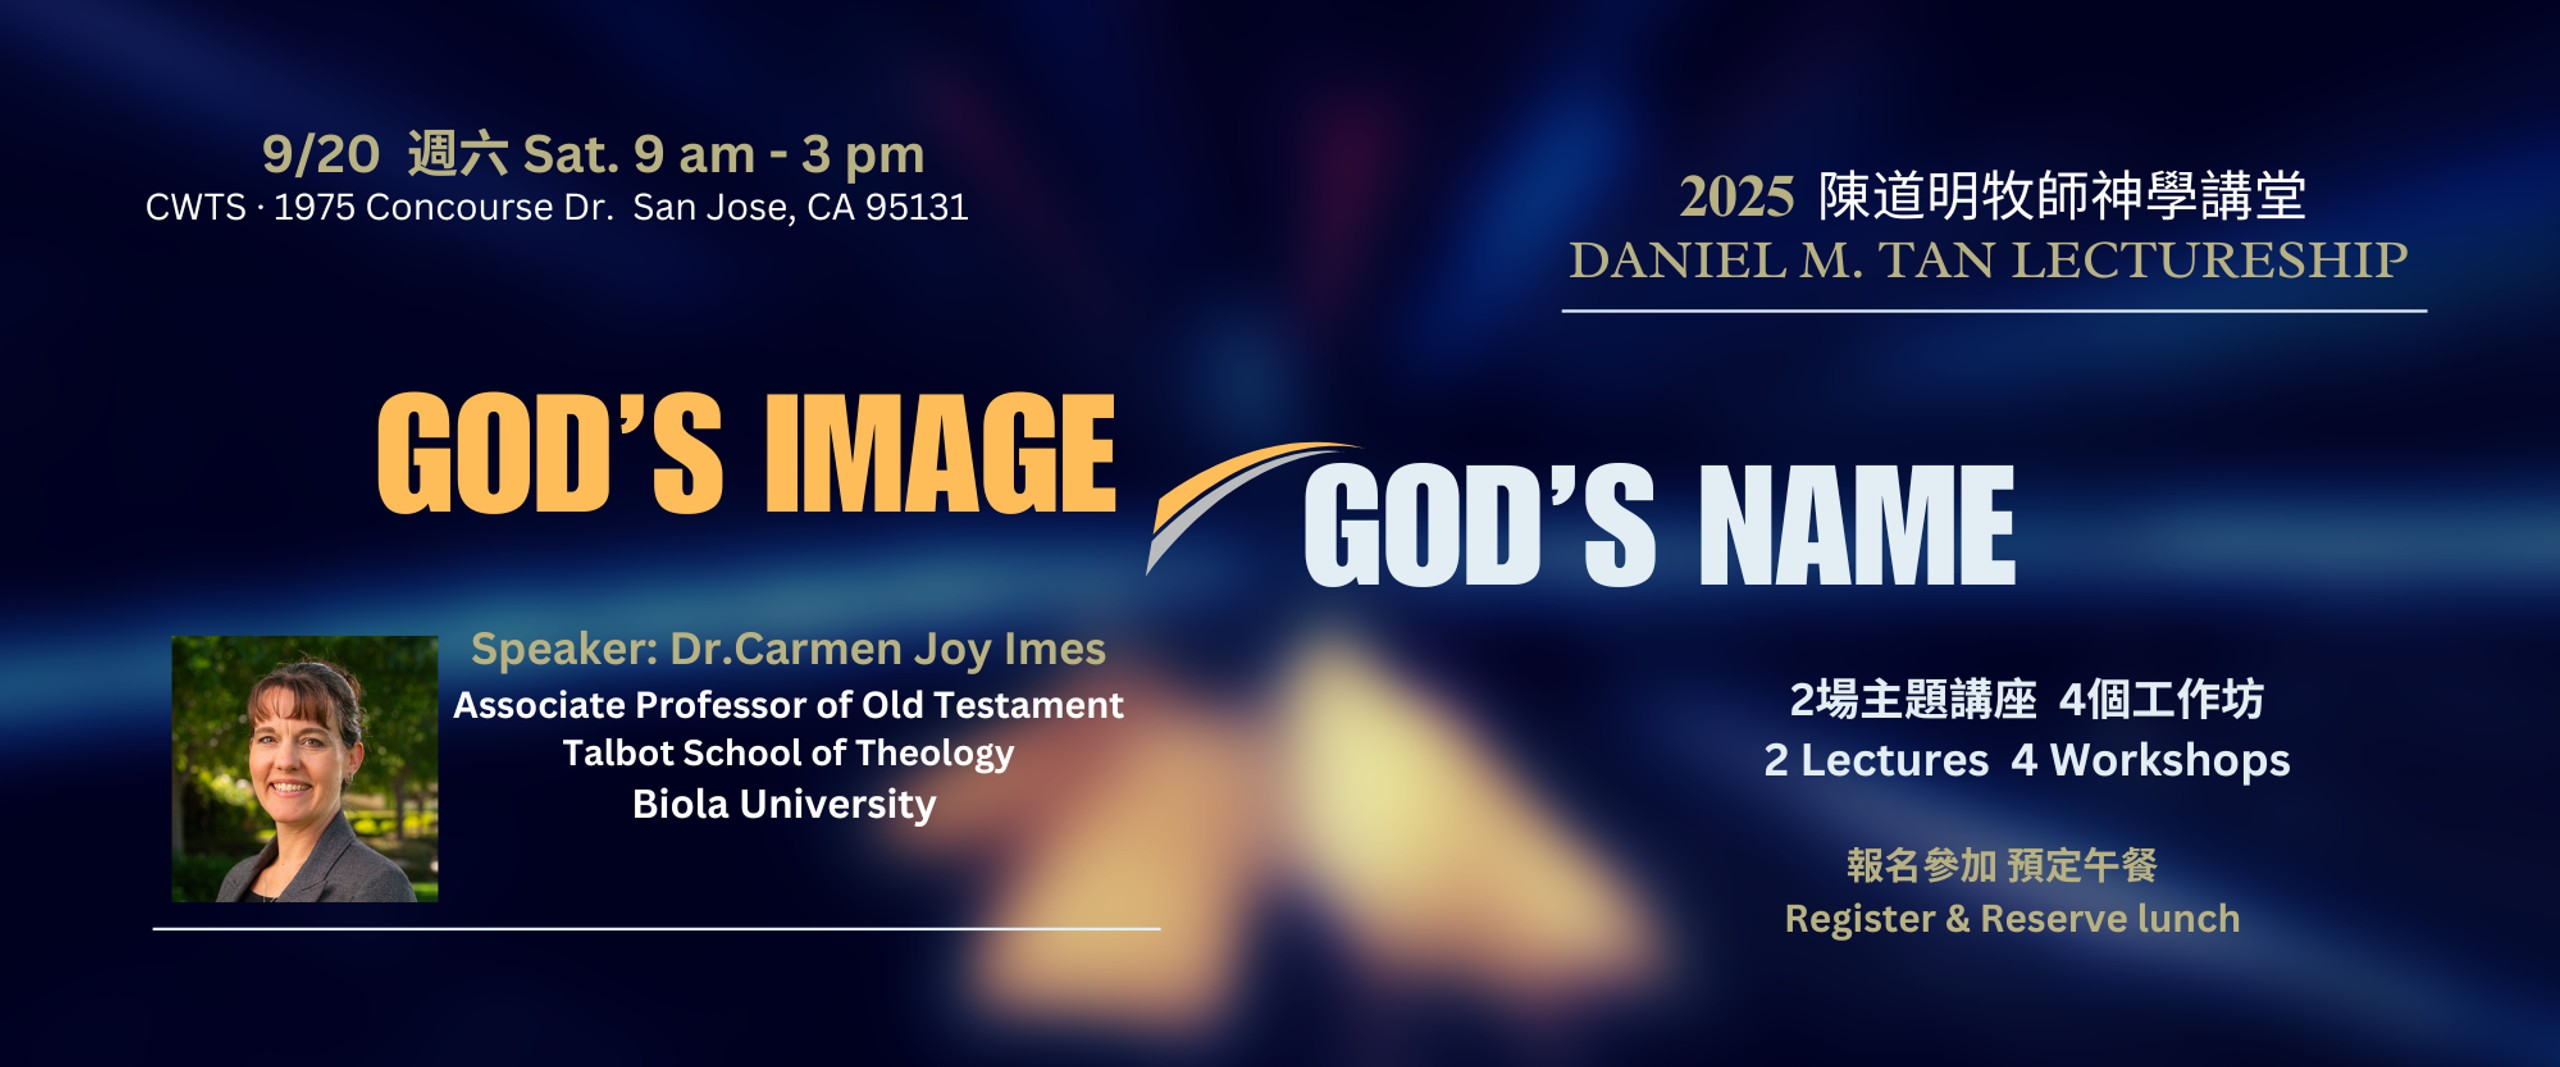
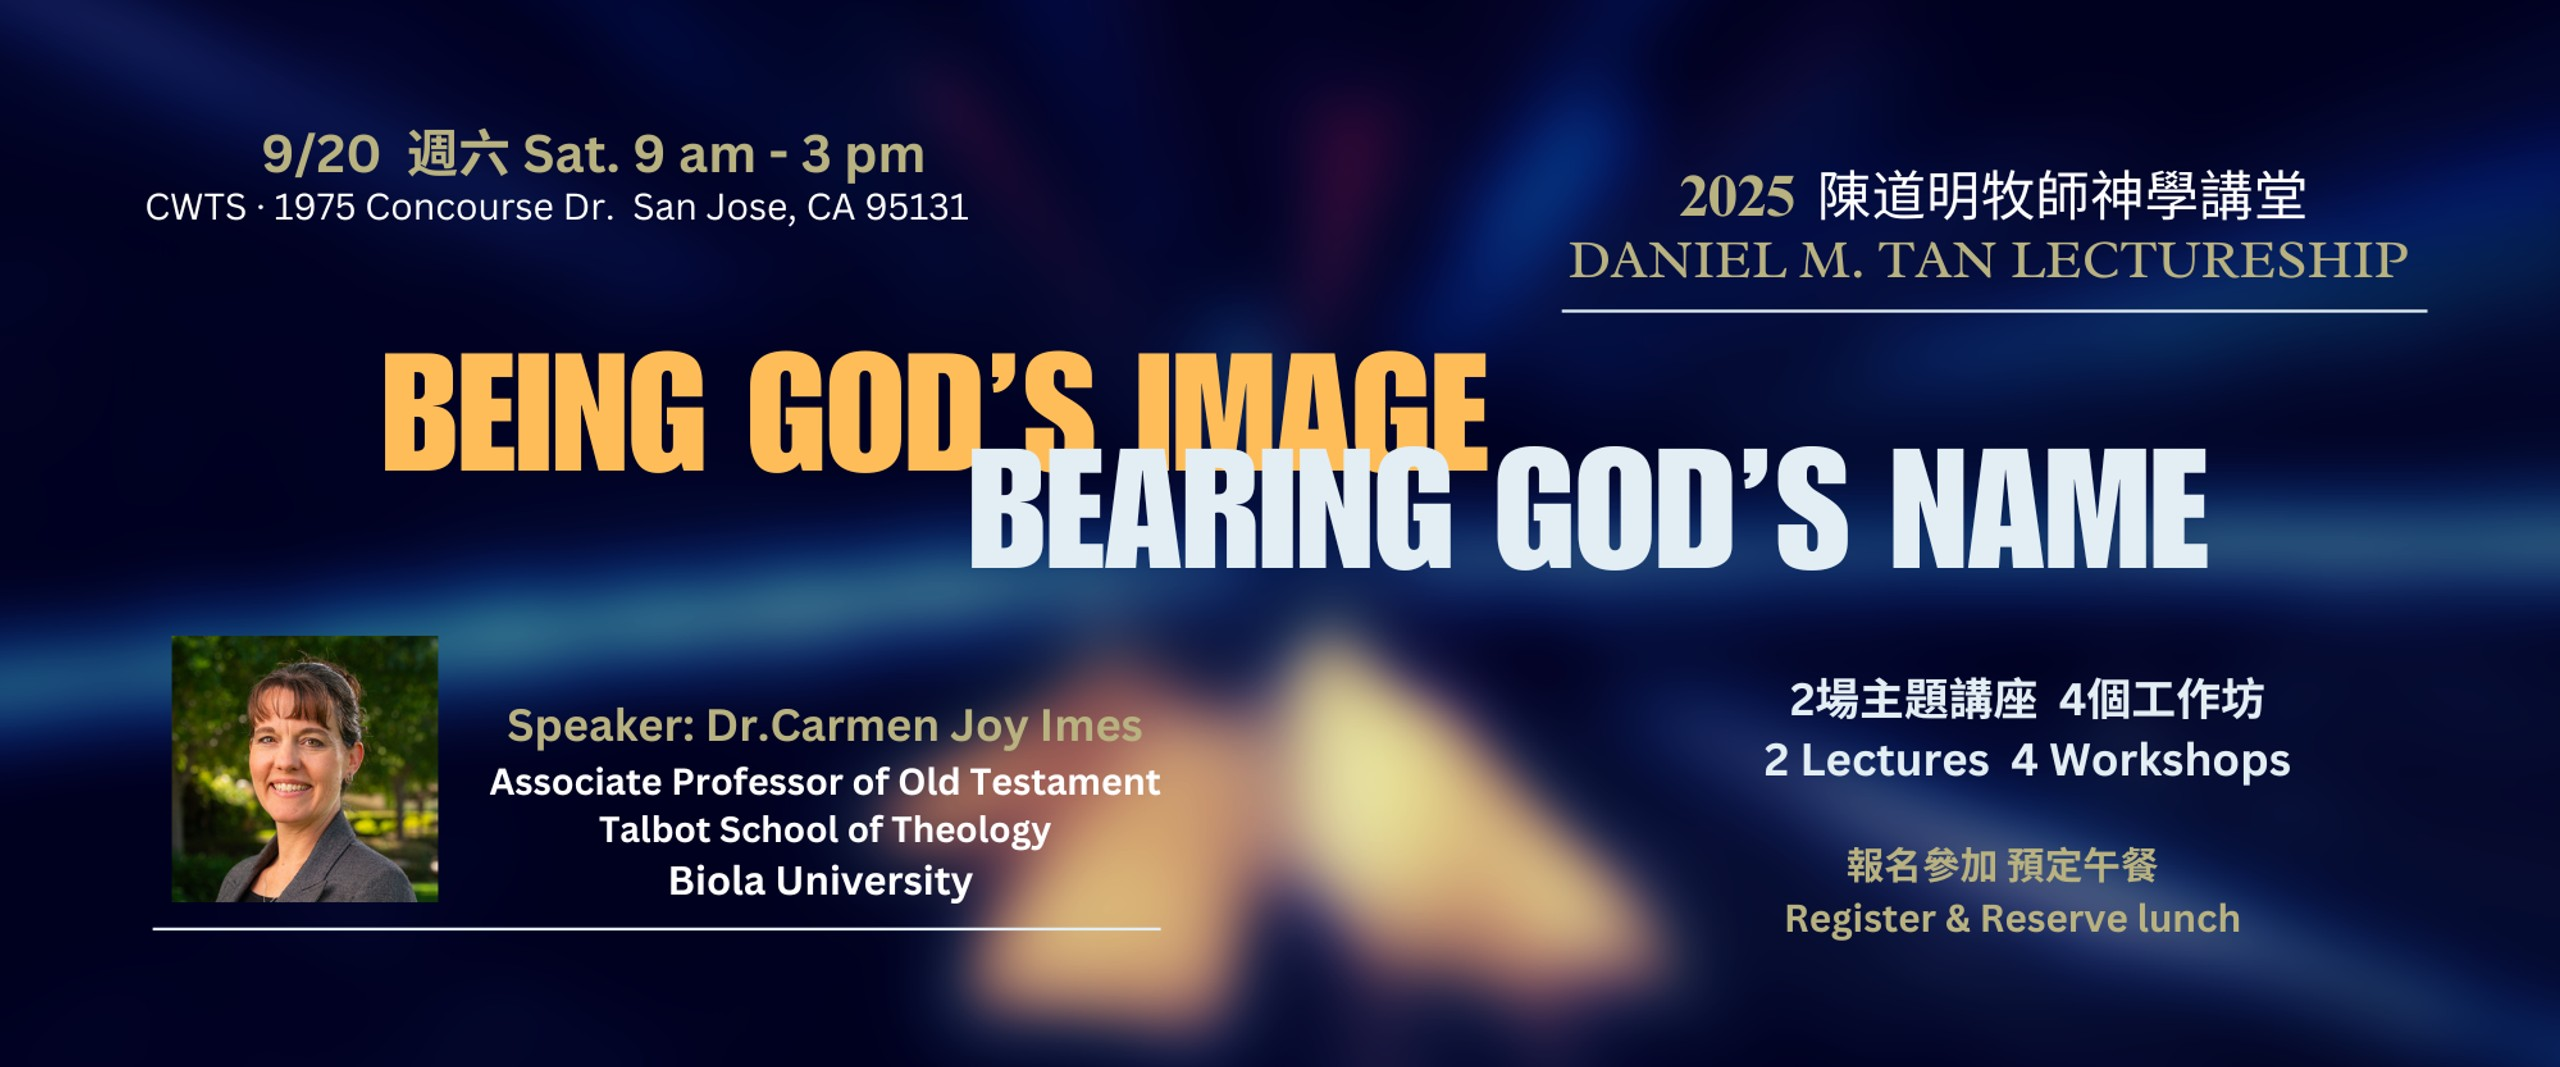
Update tan-lectureship.md (#258)
* Update tan-lectureship.md

* replace lectureship banners

* lectureship update cont'd

Changed region(s): [[0.125, 0.3093, 0.875, 0.5567], [0.1562, 0.5876, 0.4688, 0.8351]]

diff --git a/src/content/pages/zh/news-events/tan-lectureship.md b/src/content/pages/zh/news-events/tan-lectureship.md
@@ -16,9 +16,8 @@ thumbnail: "/images/covers/news-events/tan-lectureship.thumbnail.jpg"
 
 ![Lectureship Banner](/images/lectureship/lectureship2025.jpg)
 
-## 2025 年度 “陳道明牧師”神學講堂
-
-## 2025 Daniel M. Tan Lectureship
+**2025 "陳道明牧師”神學講堂**\
+**2025 Daniel M. Tan Lectureship**
 
 **2 堂主題信息 4 個工作坊**\
 2 Lectures 4 Workshops
@@ -35,55 +34,62 @@ San Jose, CA 95131](https://goo.gl/maps/Gi57SXut58CT5Ui38)
 
 </div>
 
-### 講員簡介:
+### 講員簡介 About the speaker:
 
 Carmen Joy Imes博士在Gordon-Conwell Theological Seminary道學碩士畢業後，獲得Wheaton College 神學博士學位，現任Talbot School of Theology at Biola University 舊約副教授。她著有《承擔神的名》（Bearing God’s Name，IVP 2019）與《成為神的形象》（Being God’s Image, IVP 2023）。卡門不僅在比歐拉大學授課，也透過BibleProject, Biblical Training, Admirato, Seminary Now 和 YouTube等平台 提供教學課程。她亦為《今日基督教》（Christianity Today）、《神學政治學》（Politics of Theology）和《水井》（The Well，校園團契出版社）等刊物撰稿。卡門經常受邀在教會、研討會與靈修營會中講道與教導。她熱情致力於裝備教會更深入地理解舊約聖經，並看見其對基督徒生活的重要意義。
-
-#### About the speaker:
 <details>
- <summary> Dr. Carmen Joy Imes </summary>
- received her Master of Divinity from Gordon-Conwell Theological Seminary and later earned her PhD in Theology from Wheaton College. She currently serves as Associate Professor of Old Testament at the Talbot School of Theology at Biola University. She is the author of Bearing God’s Name (IVP, 2019) and Being God’s Image (IVP, 2023).
+ <summary> Dr. Carmen Joy Imes received her Master of Divinity from Gordon-Conwell Theological Seminary...</summary>
+ and later earned her PhD in Theology from Wheaton College. She currently serves as Associate Professor of Old Testament at the Talbot School of Theology at Biola University. She is the author of Bearing God’s Name (IVP, 2019) and Being God’s Image (IVP, 2023).
 In addition to teaching at Biola, Dr. Imes offers courses through platforms such as BibleProject, Biblical Training, Admirato, Seminary Now, and YouTube. She also writes for publications including Christianity Today, Politics of Theology, and The Well (published by InterVarsity’s Women in the Academy & Professions ministry).
 Dr. Imes is frequently invited to preach and teach at churches, conferences, and retreats. She is passionate about equipping the church to engage more deeply with the Old Testament and to recognize its vital significance for Christian life today. </details>
 
 ### 講座 Lectures
 
-**講座一：按著神的形象造的人 （英文講座/ AI自動文字翻譯）** \
+**講座一 Lecture 1：人為神形象 Being God's Image（英文講座/ AI自動文字翻譯）** \
 當神稱人為祂的「形象」時，這是什麼意思？許多神學家認為「形象」是指人類的能力或功能。然而，當我們將創世記置於古代近東的語境中來閱讀時，就會更加清楚地看見，神的形象是我們作為人的身份本質。每一個人都是神的形象。我們的身份對我們在世界上的使命有重要的影響，但我們的行為並不是成為神形象的前提。神的形象不被等級化，也不會因為人的失敗而喪失。我們將探討這些真理對人生不同領域所帶來的深遠影響。
-
-#### Lecture 1
 <details>
-<summary>Being God's Image</summary>
-What does God mean when he calls humans his "image"? Many theologians have understood the image as a claim about human capacity or function. However, when we read Genesis in its ancient Near Eastern context, it becomes clear that the image of God is our human identity. Every human being is the image of God. Our identity has implications for our human vocation in the world, but our actions are not a prerequisite for our status as God's image. The image is not degreed, and the image cannot be lost. We'll explore the implications of these truths for various areas of life.</details>
+<summary>What does God mean when he calls humans his "image"?... </summary>
+Many theologians have understood the image as a claim about human capacity or function. However, when we read Genesis in its ancient Near Eastern context, it becomes clear that the image of God is our human identity. Every human being is the image of God. Our identity has implications for our human vocation in the world, but our actions are not a prerequisite for our status as God's image. The image is not degreed, and the image cannot be lost. We'll explore the implications of these truths for various areas of life.</details>
 
-**講座二：承擔神的名 （英文講座/ AI自動文字翻譯）**\
+**講座二 Lecture 2：人承神聖名 Bearing God's Name（英文講座/ AI自動文字翻譯）**\
 「不可妄稱耶和華你神的名」這條誡命常被理解為禁止咒罵或說髒話，但若從古代的語境來看，這條誡命其實有更深的含義。在西奈山，耶和華與以色列人立約，稱他們為屬祂的子民。因此，他們承擔祂的名，也承擔一個使命──在列國中代表耶和華的性情與旨意。「妄稱耶和華的名」就是以一種與神的性情、呼召和命令不一致的方式來生活，從而錯誤地代表祂的名。我們將一起思想，這對今日教會有何重要啟示。
-
-#### Lecture 2
 <details>
-<summary>Bearing God's Name</summary>
-The command not to take the Lord's name in vain is often taken to be a prohibition of swearing, but reading this command in its ancient context offers a different perspective. At Mt. Sinai, Yahweh called the Israelites into covenant relationship with himself and claimed them as his own people. As a result, they bear his name, along with a vocation to represent Yahweh among the nations. To "bear his name in vain" is to misrepresent the character and priorities of Yahweh by living in a way that's inconsistent with his character, calling, and commands. We'll consider implications for the church today.</details>
+<summary>The command not to take the Lord's name in vain is often taken to be a prohibition of swearing, but...</summary>
+...reading this command in its ancient context offers a different perspective. At Mt. Sinai, Yahweh called the Israelites into covenant relationship with himself and claimed them as his own people. As a result, they bear his name, along with a vocation to represent Yahweh among the nations. To "bear his name in vain" is to misrepresent the character and priorities of Yahweh by living in a way that's inconsistent with his character, calling, and commands. We'll consider implications for the church today.</details>
 
 ### 工作坊 Workshops
 **工作坊一 ：蔡明謀牧師/博士（基督工人神學院 院長）** \
-題目待定
+再思聖潔：深化與實踐
+<details>
+ <summary> 要活出祂的形象並承載祂的名，成為聖潔是必然的。... </summary>
+然而，今日對聖潔的定義卻是模糊、抽像，不完整的。我們通常將聖潔描述為神的【超然性】或是【祂者性】，或以罪與世界的對立來定義聖潔，雖在神學上無誤，卻忽略了聖潔更重要的層面，同時阻礙了我們對聖潔的理解和實踐，因而減弱了聖潔在日常基督徒生命和生活中的作用。本工作坊將探討在聖經時代對聖潔的理解與實踐，並提供具體卻易被忽略的聖潔示例，幫助我們當代的基督徒學習操練並實踐聖潔。</details>
 
 **工作坊二： 歐雨虹博士 (基督工人神學院 新約助理教授)** \
-題目待定
+載神聖名，活出神憐憫
+<details>
+ <summary> 從舊約到新約，神呼召祂的子民要承載神聖名，在萬民中成為祂的代表，活出神的屬性與使命。... </summary>
+在神核心的自我啟示，神形容自己是「有憐憫，有恩惠的神，不輕易發怒，且有豐盛的慈愛和信實」 (出 34:6)。講座會探討「憐憫」是什麼? 希伯來文的「憐憫」與「子宮」有關，希臘文的「憐憫」與「內臟」有關，「憐憫」與身體的關係是什麼? 神的憐憫會帶出哪些行動? 耶穌的生命如何流露出神的「憐憫」? 我們可以如何活出神的「憐憫」?
+</details>
 
 **工作坊三： 陳聲漢博士 (金門神學院舊約教授)** \
-題目待定
+但以理書第7章中的上帝形象與人子
+<details>
+ <summary> 學者普遍認同但以理書第7章在但以理書中的重要性。... </summary>
+ 7章既是但以理書亞蘭文部分（但以理書2-7章）的總結，也是但以理書8-12章異象的過渡。但以理在但以理書第7章中的異像以四個野獸開始，隨後以「亙古常在者」 和 「像人子的」的出現作為高潮。本工作坊將解釋但以理書第7章及其與創世記1:26-27中上帝形象的連結。</details>
 
 **工作坊四： 陳聲洋弟兄 (美南浸信會神學院 神學碩士)** \
-題目待定
+靈與肉身在宋尚節（1901-44）與計志文（1901-85）事奉中的地位
+<details>
+ <summary>  要了解“人”的意義，我們需要從《聖經》中探究靈魂與身體的教導。... </summary>
+ 同時，我們對聖經的理解會不自覺地受到文化和歷史的影響。在這個工作坊中，我們將探討20世紀兩位重要的中國基督教領袖——宋尚節（1901-1944）和計志文（1901-1985）——在靈魂與身體主題上的教導。通過閱讀他們的講道和文章，我們會被他們所強調的，聖靈如何賦予基督徒生活和事奉的力量所激勵。但我們也會發現，因著他們對《聖經》的某些靈意解經帶來的問題，比如宋尚節對身體的看法不夠全面。最後，我們將討論對今日中國基督徒的影響和意義。</details>
 
-### 當天的具體時間安排 Schedule:
+### 當日流程 Program:
 
 09:00 am 開場致辭 Opening/Prayer
 
 09:10 am 主題講座 1\* Lecture 1
 
-10:10 am 基神教授 對話講員環節 Response to Lecture by Faculty Member
+10:10 am 基神教授與講員環節 Response to Lecture by Faculty Member
 
 10:20 am 中場休息 Break
 
@@ -93,12 +99,12 @@ The command not to take the Lord's name in vain is often taken to be a prohibiti
 
 12:45 pm 主題講座 2\* Lecture 2
 
-1:45 pm 基神教授 對話講員環節 Response to Lecture by Faculty Member
+1:45 pm 基神教授與講員環節 Response to Lecture by Faculty Member
 
 1:55 pm 中場休息 Break
 
 2:10 pm 與會者與講員互動環節 Q&A 
 
-3:00 pm 當天活動結束 Closing
+3:00 pm 報告/當天活動結束 Closing
 
 \* 除 Dr. Carmen Joy Imes 的主題信息(將提供中文翻譯)，其他工作坊均為國語。
